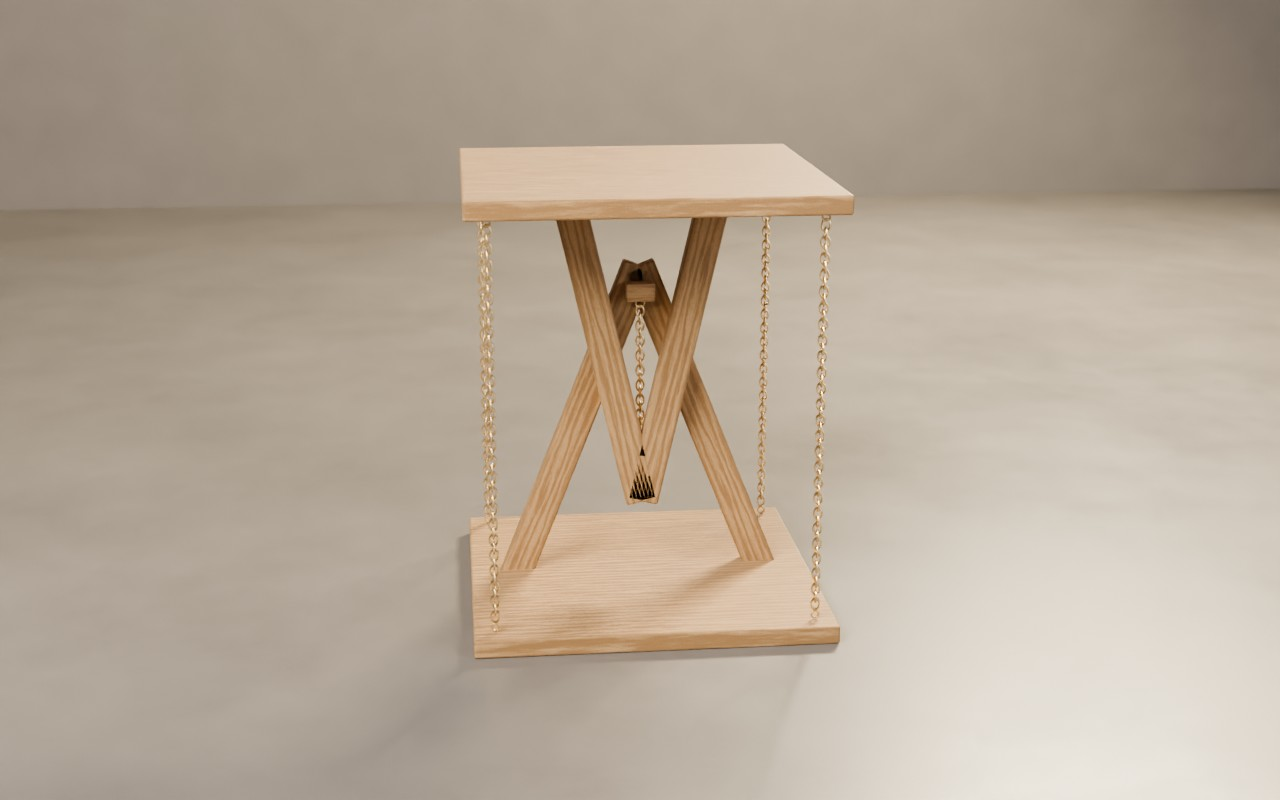
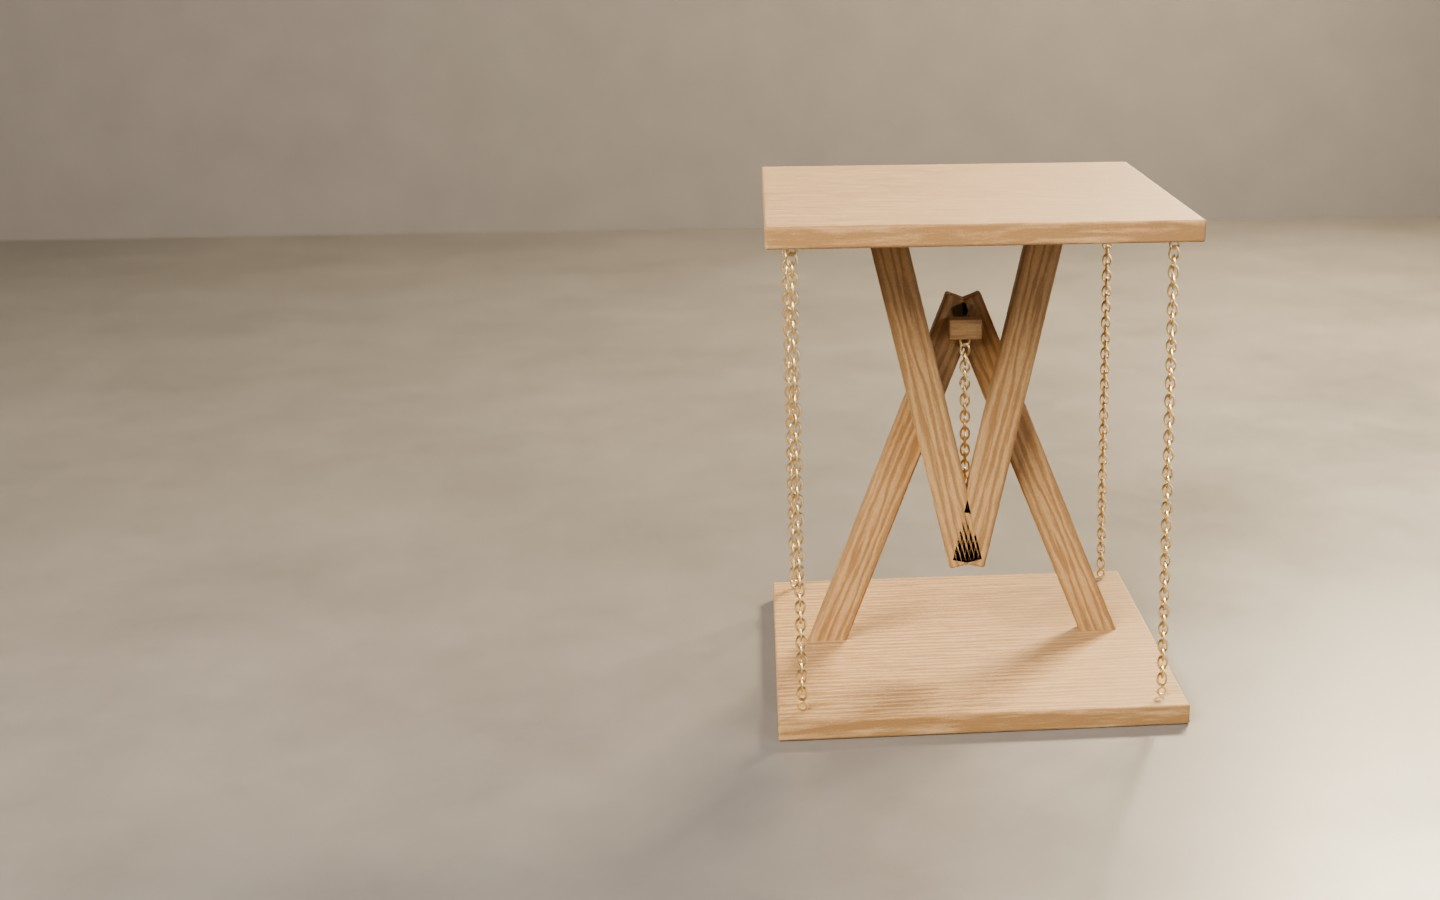
Rendus finaux : rotation 360° du héro, mises en situation, potagers
Claude-Session: https://claude.ai/code/session_01GUstUu98oeQet9HKHsGA5F

Changed region(s): [[0.3438, 0.1562, 0.875, 1.0], [0.8438, 0.0, 1.0, 0.2812]]

diff --git a/index.html b/index.html
@@ -128,10 +128,10 @@
         <p>Toutes les pièces présentées ont trouvé preneur. Elles donnent le ton ; les suivantes se composent avec vous.</p>
       </div>
       <div class="grid">
-        <a class="piece wide" href="/collection#origine">
-          <div class="vis reveal"><img src="img/scenes/origine-salon.jpg" alt="Table en tenségrité N°1 Origine en pin massif dans un salon : le plateau flotte au-dessus de la base, chaînettes de laiton" loading="lazy" width="1000" height="1250"><span class="tag sold">Épuisé</span></div>
-          <h3>N°1 « Origine »</h3>
-          <div class="meta"><span>Pin massif brossé, chaînettes de laiton</span><s>420 €</s></div>
+        <a class="piece wide" href="/collection#basse">
+          <div class="vis reveal"><img src="img/scenes/basse-salon.jpg" alt="Table basse en tenségrité Horizon en noyer massif dans un salon : le plateau flotte au-dessus de la base, cordes de lin noir" loading="lazy" width="1250" height="1000"><span class="tag sold">Épuisé</span></div>
+          <h3>Table basse « Horizon »</h3>
+          <div class="meta"><span>Noyer massif, lin noir · 100 × 56 × 40 cm</span><s>1 650 €</s></div>
         </a>
         <a class="piece" href="/collection#echec">
           <div class="vis reveal"><img src="img/pieces/echec-studio.jpg" alt="Table d'échecs en tenségrité : plateau en chêne avec damier en céramique émaillée vert et crème cerclé de laiton, cordes de lin noir" loading="lazy" width="1000" height="1250"><span class="tag sold">Épuisé</span></div>
@@ -143,10 +143,10 @@
           <h3>« Lune »</h3>
           <div class="meta"><span>Olivier, chanvre naturel</span><s>1 240 €</s></div>
         </a>
-        <a class="piece" href="/collection#basse">
-          <div class="vis reveal"><img src="img/pieces/basse-studio.jpg" alt="Table basse en tenségrité en noyer massif, cordes de lin noir, plateau flottant" loading="lazy" width="1000" height="1250"><span class="tag sold">Épuisé</span></div>
-          <h3>Table basse « Horizon »</h3>
-          <div class="meta"><span>Noyer massif, lin noir</span><s>1 650 €</s></div>
+        <a class="piece" href="/collection#origine">
+          <div class="vis reveal"><img src="img/pieces/origine-studio.jpg" alt="Table en tenségrité N°1 Origine en pin massif, chaînettes de laiton" loading="lazy" width="1000" height="1250"><span class="tag sold">Épuisé</span></div>
+          <h3>N°1 « Origine »</h3>
+          <div class="meta"><span>Pin massif brossé, chaînettes de laiton</span><s>420 €</s></div>
         </a>
         <a class="piece" href="/collection#brulee">
           <div class="vis reveal"><img src="img/pieces/brulee-studio.jpg" alt="Table en tenségrité en frêne brûlé à la flamme, câbles de laiton tendus" loading="lazy" width="1000" height="1250"><span class="tag sold">Épuisé</span></div>

diff --git a/css/style.css b/css/style.css
@@ -112,7 +112,7 @@ s { text-decoration-thickness: 1px; }
 
 /* ---------- Héro ---------- */
 .hero { position: relative; min-height: 100svh; display: grid; align-items: end; overflow: hidden; background: #b2a999; }
-.hero .veil { position: absolute; inset: 0; pointer-events: none; background: linear-gradient(90deg, rgba(231,225,215,.55), rgba(231,225,215,0) 48%); }
+.hero .veil { position: absolute; inset: 0; pointer-events: none; background: linear-gradient(180deg, rgba(231,225,215,.8), rgba(231,225,215,0) 20%), linear-gradient(90deg, rgba(231,225,215,.55), rgba(231,225,215,0) 48%); }
 @media (max-width: 900px) { .hero .veil { background: linear-gradient(180deg, rgba(231,225,215,0) 35%, rgba(231,225,215,.85) 72%); } }
 .hero .inner { position: relative; z-index: 2; padding-bottom: clamp(32px, 6vw, 88px); padding-top: 120px; display: grid; gap: 28px; grid-template-columns: 1fr; align-items: end; color: var(--ink); pointer-events: none; }
 .hero .inner > * { pointer-events: auto; max-width: 620px; }
@@ -293,3 +293,4 @@ s { text-decoration-thickness: 1px; }
 .seg button:disabled { opacity: .35; cursor: not-allowed; }
 .hero-spin { background: #b2a999 url("../img/pieces/origine-studio.jpg") right 10% center / auto 100% no-repeat; }
 @media (max-width: 900px) { .hero-spin img { object-position: 68% 40%; } .hero-spin { background-position: center top; } }
+.piece-spin { background: #b2a999 url("../img/pieces/origine-studio.jpg") center / cover no-repeat; }

diff --git a/render/tensegrite.py b/render/tensegrite.py
@@ -55,7 +55,7 @@ sc.cycles.max_bounces = 6; sc.cycles.caustics_reflective = False; sc.cycles.caus
 sc.render.resolution_x, sc.render.resolution_y = RES; sc.render.resolution_percentage = 100
 sc.render.image_settings.file_format = "JPEG"; sc.render.image_settings.quality = 90
 sc.view_settings.view_transform = "AgX"; sc.view_settings.look = "AgX - Medium High Contrast"
-sc.view_settings.exposure = -0.3
+sc.view_settings.exposure = float(opt("--exposure", -0.3))
 sc.render.film_transparent = False
 
 def mat(name):
